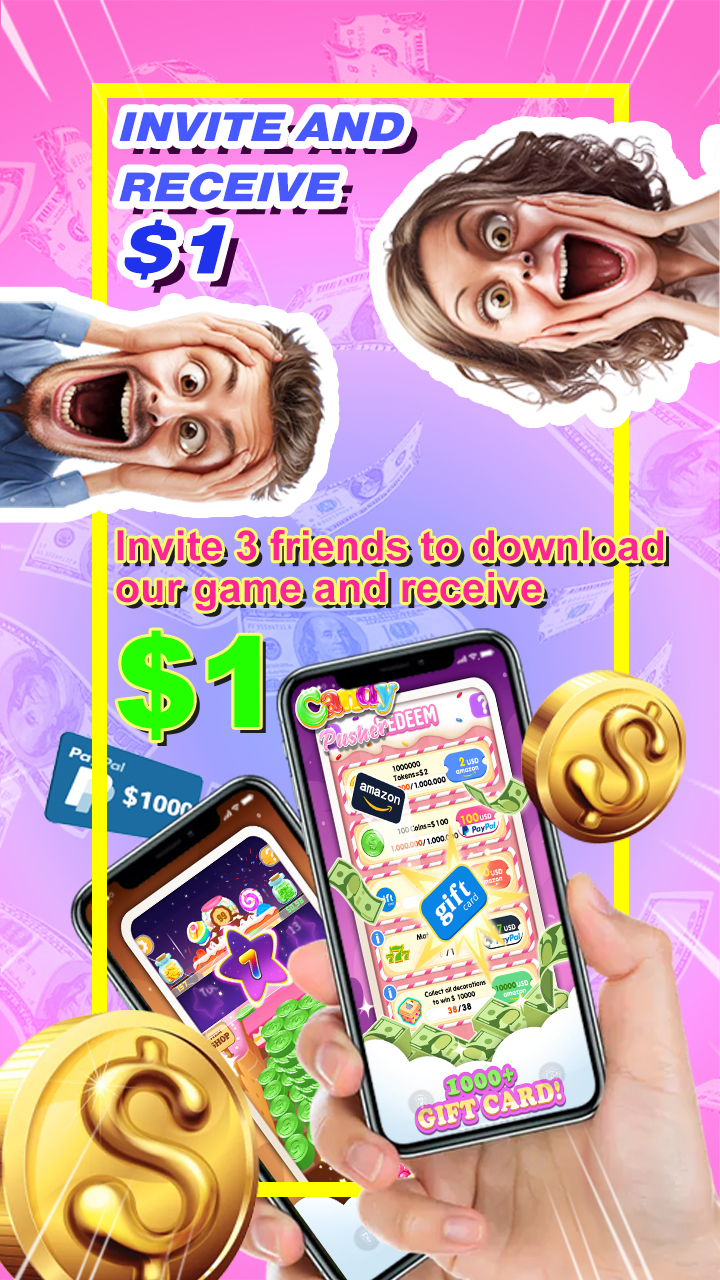
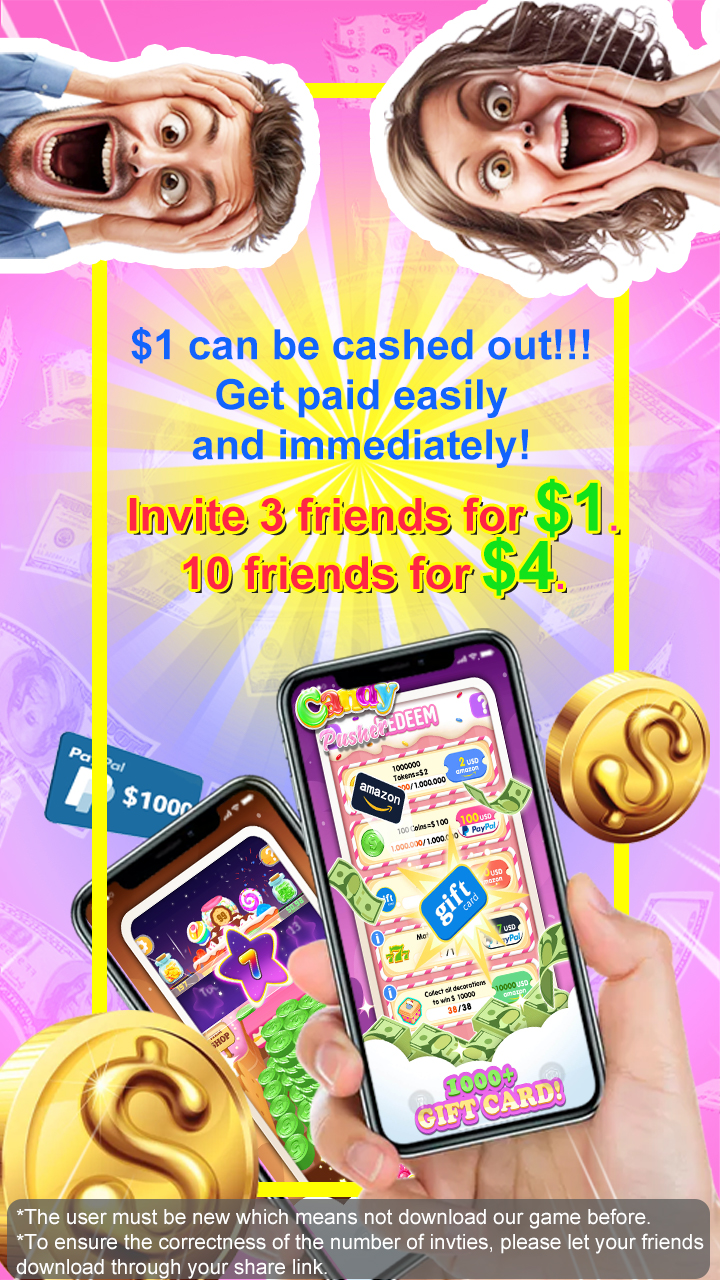
游戏海报更新，增加binggo游戏，拉新图片文字描述更新

diff --git a/src/views/home/index.jsx b/src/views/home/index.jsx
@@ -13,14 +13,18 @@ import inviteUrl from "../../assets/invite.png";
 import arcadepusher_assets_0 from "../../assets/arcadepusher_assets_0.png";
 import arcadepusher_assets_1 from "../../assets/arcadepusher_assets_1.png";
 import arcadepusher_assets_2 from "../../assets/arcadepusher_assets_2.png";
+import bingooo_assets_02 from "../../assets/binggo_assets_0.png";
+import bingooo_assets_01 from "../../assets/binggo_assets_1.png";
 import arcadePusherIcon from "../../assets/arcadePusher.png"
 import slotsGoIcon from "../../assets/slotsgo_icon.png";
 import plinkoGoIcon from "../../assets/plinkogo_icon.png";
+import bingGoIcon from "../../assets/binggo_icon.png";
 import candyPusherIcon from "../../assets/candypusher_icon.png";
 import plinkoManiaIcon from "../../assets/plinkomania_icon.png";
 import slotsGoBanner from "../../assets/slotsgo_banner.jpg";
 import arcadePusherBanner from "../../assets/arcadepusher_banner.jpg";
 import plinkoGoBanner from "../../assets/plinkogo_banner.jpg";
+import bingGoBanner from "../../assets/binggo_banner.jpg";
 import plinkomaniaBanner from "../../assets/plinkomania_banner.jpg";
 import candyPusherBanner from "../../assets/candypusher_banner.jpg";
 import videoMp4 from "../../assets/redeem.mp4";
@@ -29,7 +33,9 @@ import "./index.css";
 const ASSETS_IMAGE = {
     arcadepusher_assets_0,
     arcadepusher_assets_1,
-    arcadepusher_assets_2
+    arcadepusher_assets_2,
+    bingooo_assets_02,
+    bingooo_assets_01,
 }
 
 const GAME_ICON = {
@@ -37,6 +43,7 @@ const GAME_ICON = {
     slotsgo: slotsGoIcon,
     plinkomania: plinkoManiaIcon,
     plinkogo: plinkoGoIcon,
+    bingooo: bingGoIcon,
 }
 
 const HOT_GAMES = [
@@ -68,6 +75,12 @@ const HOT_GAMES = [
         icon: plinkoGoIcon,
         name: "plinkoGo",
         banner: plinkoGoBanner,
+        text: ""
+    },
+    {
+        icon: bingGoIcon,
+        name: "bingooo",
+        banner: bingGoBanner,
         text: ""
     }
 ]

diff --git a/src/views/download/index.jsx b/src/views/download/index.jsx
@@ -7,6 +7,7 @@ import plinkoGo_bg from "../../assets/plinkogo_poster.jpg";
 import plinkoMania_bg from "../../assets/plinkomania_poster.jpg";
 import candyPusher_bg from "../../assets/candypusher_poster.jpg";
 import arcadePusher_bg from "../../assets/arcadepusher_poster.jpg";
+import binggo_bg from "../../assets/binggo_poster.jpg";
 
 import "./index.css";
 
@@ -15,7 +16,8 @@ const GAME_BG = {
     plinkogo: plinkoGo_bg,
     plinkomania: plinkoMania_bg,
     candypusher: candyPusher_bg,
-    arcadepusher: arcadePusher_bg
+    arcadepusher: arcadePusher_bg,
+    binggooo: binggo_bg,
 };
 
 const Download = (props) => {

diff --git a/src/views/login/index.jsx b/src/views/login/index.jsx
@@ -101,8 +101,8 @@ export default function Login(props) {
             <WhiteSpace size="xl"></WhiteSpace>
             <h2>INVITE AND</h2>
             <h1>RECEIVE</h1>
-            <h1 className="money">$1</h1>
-            <p>Invite 3 friends to download our game and receive $1</p>
+            <h1 className="money">CASH PRIZE</h1>
+            <p>Invite 3 friends for <span style={{ color: "#116aad" }}>$1</span>.<br />10 friends for <span style={{ color: "#116aad" }}>$4</span>.</p>
             <Button
                 style={{
                     width: "70vw",

diff --git a/src/config/config.js b/src/config/config.js
@@ -25,6 +25,10 @@ const config = {
       downloadUrl: "https://candypusher.onelink.me/Z7Np/c66ab3a",
       appName: "candyPusher",
     },
+    {
+      downloadUrl: "https://bingooo.onelink.me/d98B/ad5b569f",
+      appName: "bingGo",
+    },
   ],
   server: {
     baseUrl: "https://fkz3gphuoa.execute-api.us-west-2.amazonaws.com/Prod",

diff --git a/src/views/login/index.css b/src/views/login/index.css
@@ -23,4 +23,5 @@
   padding: 0 15vw;
   text-align: center;
   font-weight: bold;
+  font-size: 1rem;
 }
